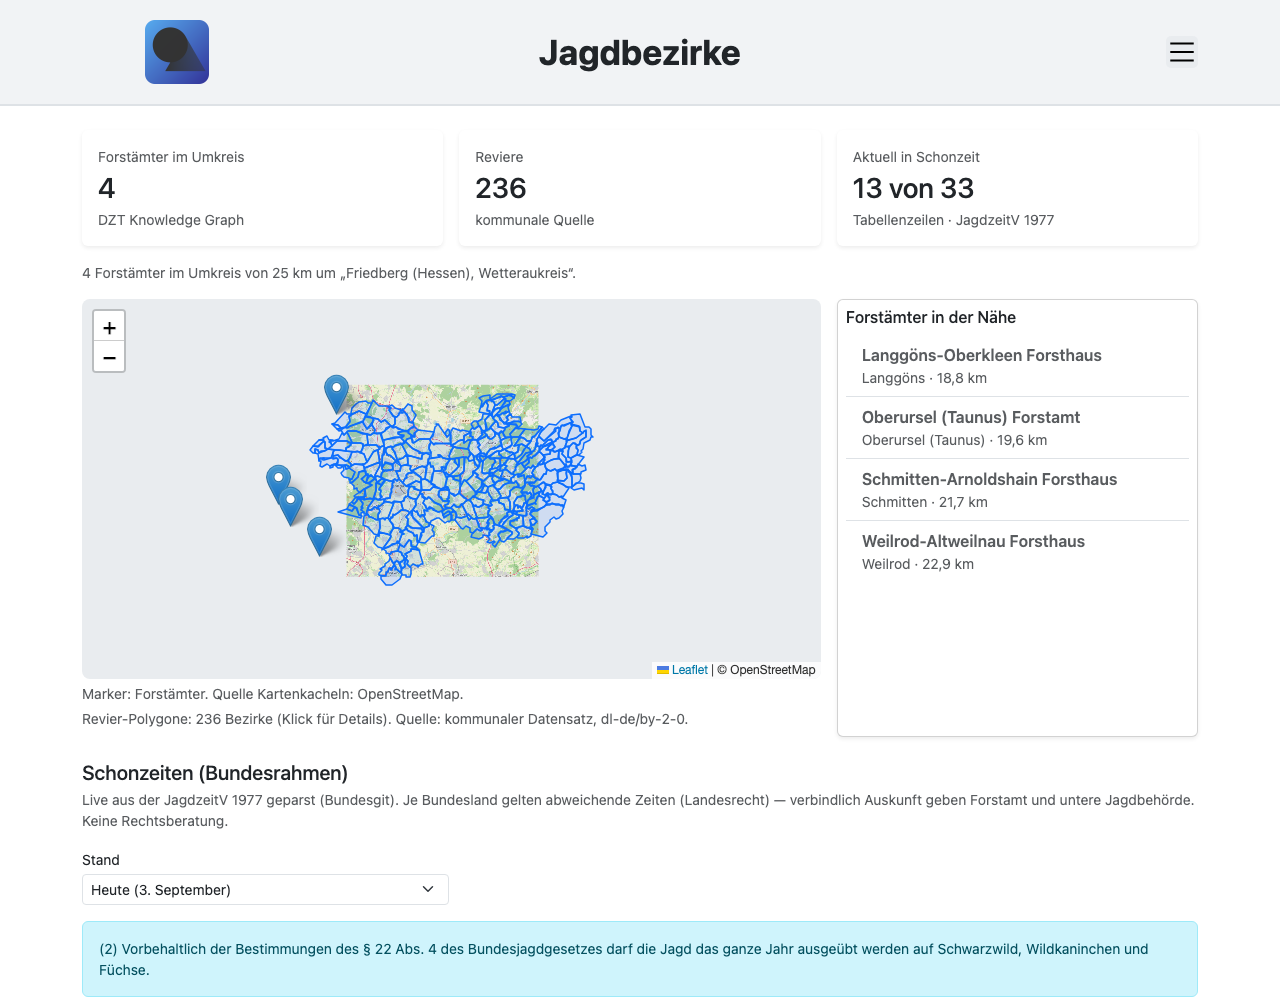
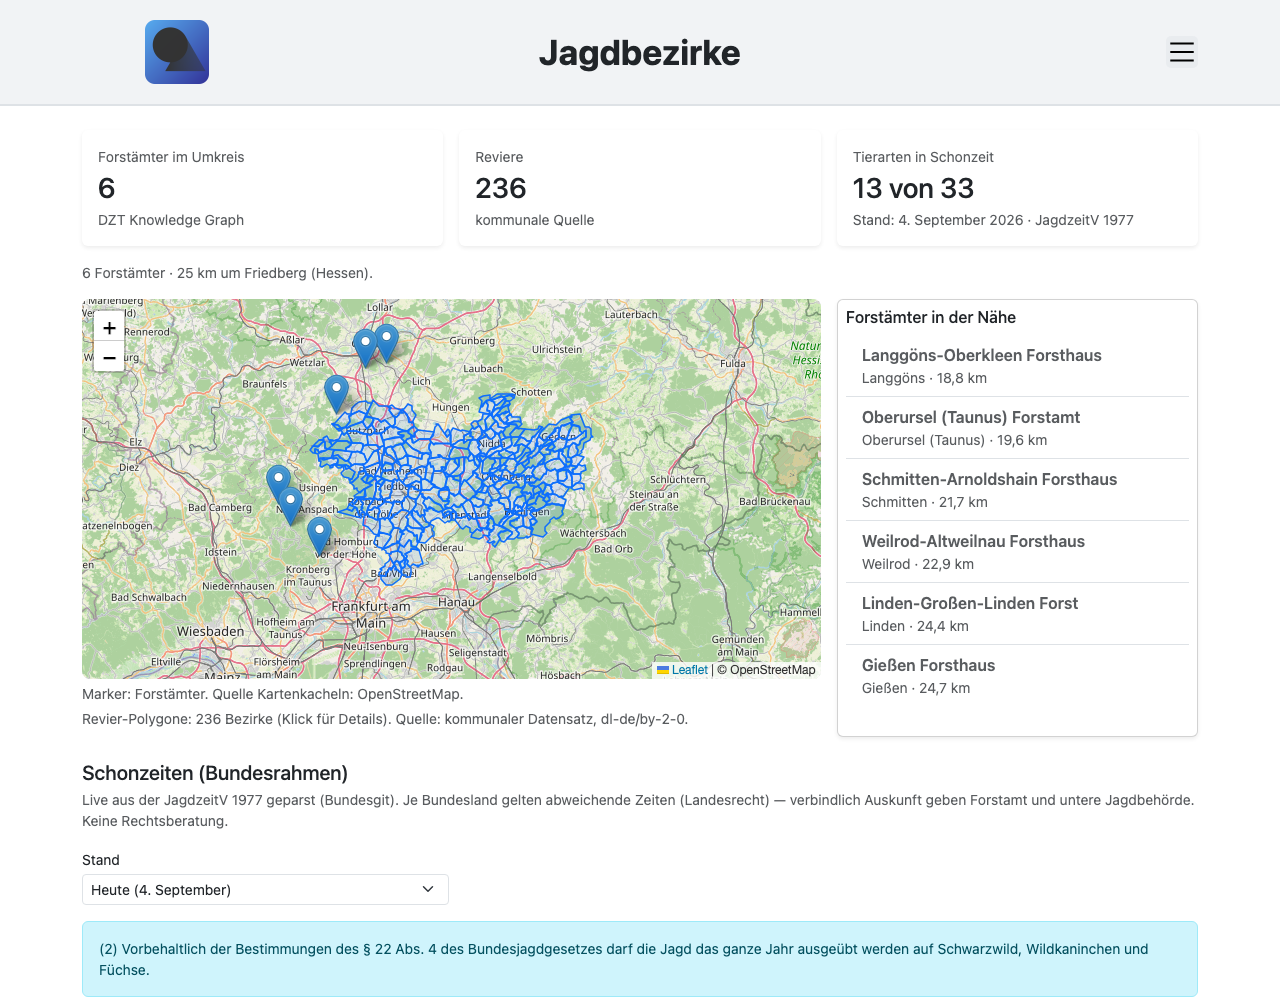
feat: Schonzeiten als Monats-Selektor mit Toggle, Popups statt Detail-Cards, KPI-Datum
- Schonzeiten-Tabelle ersetzt durch Stand-Selektor (Heute + 12 Monate)
  mit Segment-Toggle Schonzeit/Jagdzeit inkl. Gruppen-Koepfen
- Forstamt-Tabelle und beide Detail-Cards entfernt, Details als
  kompakte Leaflet-Popups (maxWidth, Content-Disziplin ohne
  technische IDs) plus aria-live-Ansage
- KPI Tierarten in Schonzeit mit Live-Datum (Stand: ... JagdzeitV 1977)
- Statuszeile gekuerzt, Weitere Informationen einklappbar
- Neue Desktop-/Mobil-Screenshots, Screenshots-Sektion im README

diff --git a/app/app.js b/app/app.js
@@ -109,10 +109,10 @@ function renderJbShell(state) {
     '<div class="row g-3 mb-3">' +
     kpiCard(uid, "jb-kpi-forst", "Forstämter im Umkreis", "DZT Knowledge Graph") +
     kpiCard(uid, "jb-kpi-revier", "Reviere", "kommunale Quelle") +
-    kpiCard(uid, "jb-kpi-schon", "Aktuell in Schonzeit", "Tabellenzeilen · JagdzeitV 1977") +
+    kpiCard(uid, "jb-kpi-schon", "Tierarten in Schonzeit", "JagdzeitV 1977", "jb-kpi-schon-sub") +
     "</div>" +
     '<div id="jb-hinweis-' + uid + '"></div>' +
-    '<div id="jb-status-' + uid + '" class="text-muted small mb-3">Forstämter werden gesucht …</div>' +
+    '<div id="jb-status-' + uid + '" class="jb-status text-muted small mb-3">Forstämter werden gesucht …</div>' +
     '<div class="visually-hidden" role="status" id="jb-live-' + uid + '"></div>' +
     '<div class="row g-3 mb-2">' +
     '<div class="col-12 col-lg-8">' +
@@ -161,15 +161,19 @@ function renderJbShell(state) {
   );
 }
 
-function kpiCard(uid, id, label, kontext) {
+function kpiCard(uid, id, label, kontext, subId) {
   return (
     '<div class="col-12 col-sm-6 col-lg-4">' +
     '<div class="card h-100 shadow-sm border-0"><div class="card-body">' +
     '<div class="text-muted small mb-1">' + escapeHtml(label) + "</div>" +
     '<div class="h3 mb-1" id="' + id + "-" + uid + '">—</div>' +
-    '<div class="small text-muted">' + escapeHtml(kontext) + "</div>" +
+    '<div class="small text-muted"' + (subId ? ' id="' + subId + "-" + uid + '"' : "") + '>' + escapeHtml(kontext) + "</div>" +
     "</div></div></div>"
   );
+}
+
+function jbStandDatum(datum) {
+  return "Stand: " + datum.getDate() + ". " + jbMonatsname(datum.getMonth() + 1) + " " + datum.getFullYear() + " · JagdzeitV 1977";
 }
 
 function jbEl(state, name) {
@@ -181,7 +185,7 @@ function setJbStatus(state, text, kind) {
   if (!el) return;
   // Hinweiszeile statt Alert-Box (KPI darüber zeigt die Zahl bereits).
   // Echte Fehler kommen über renderOdasFehler() als eigene Alert-Box.
-  el.className = "text-muted small mb-3";
+  el.className = "jb-status text-muted small mb-3";
   el.textContent = text;
 }
 
@@ -205,12 +209,14 @@ async function ladeForstaemter(state, sparqlUrl, ort) {
     state.forstaemter = parseForstRows(rows, center, radiusKm);
     state.loaded = true;
     if (state.forstaemter.length === 0) {
-      setJbStatus(state, "Keine Forstämter im Umkreis von " + radiusKm + " km um „" + center.label + "“ gefunden.", "info");
+      setJbStatus(state, "Keine Forstämter um " + center.label + " gefunden (Radius " + radiusKm + " km).", "info");
       const liste = jbEl(state, "liste");
       if (liste) liste.innerHTML = '<div class="p-3 text-muted small">Keine Daten gefunden.</div>';
       return;
     }
-    setJbStatus(state, state.forstaemter.length + " Forstämter im Umkreis von " + radiusKm + " km um „" + center.label + "“.", "info");
+    setJbStatus(state, state.forstaemter.length === 1
+      ? "1 Forstamt · " + radiusKm + " km um " + center.label + "."
+      : state.forstaemter.length + " Forstämter · " + radiusKm + " km um " + center.label + ".", "info");
     renderJbListe(state);
     await initJbKarte(state);
     aktualisiereKpis(state);
@@ -239,7 +245,7 @@ async function jbGeocode(ort, signal) {
   const data = await response.json();
   if (!Array.isArray(data) || data.length === 0) return null;
   const treffer = data[0];
-  return { lat: Number(treffer.lat), lon: Number(treffer.lon), label: String(treffer.display_name || ort).split(",").slice(0, 2).join(",") };
+  return { lat: Number(treffer.lat), lon: Number(treffer.lon), label: String(treffer.display_name || ort).split(",")[0] };
 }
 
 // Der Relay hängt an https://proxy.opendatagermany.io/api/ an — der konfigurierte
@@ -828,6 +834,8 @@ function aktualisiereKpis(state) {
     const monat = heute.getMonth() + 1;
     const inSchonzeit = state.jagdzeilen.filter((z) => !z.intervalle.some((iv) => jbIntervallDeckt(iv, tag, monat))).length;
     schon.textContent = inSchonzeit + " von " + state.jagdzeilen.length;
+    const sub = jbEl(state, "kpi-schon-sub");
+    if (sub) sub.textContent = jbStandDatum(heute);
   }
 }
 

diff --git a/app/app.css b/app/app.css
@@ -60,6 +60,10 @@
   overflow-wrap: anywhere;
 }
 
+.jb-status {
+  overflow-wrap: anywhere;
+}
+
 @media (max-width: 576px) {
   .jb-karte {
     height: 300px !important;

diff --git a/README.md b/README.md
@@ -29,6 +29,15 @@ Die Konfiguration wird vom ODAS geladen. Die App zeigt folgende Inhalte:
 
 ---
 
+## Screenshots
+Die App im Desktop- und Mobil-Layout (Beispieldaten: Wetteraukreis, DZT Knowledge Graph):
+
+![Jagdbezirke Desktop-Ansicht](assets/Desktop_Screenshot.png)
+
+![Jagdbezirke Mobil-Ansicht](assets/Mobile_Screenshot.png)
+
+---
+
 ## Für wen ist diese App?
 Diese App richtet sich an Spaziergängerinnen und Spaziergänger, Hundehalter, Reiterinnen und Reiter sowie Kommunen und Tourismusstellen, die wissen möchten, wo Jagdgebiete liegen und an wen man sich wenden kann. Voraussetzung ist kein spezielles Datenwissen.
 
